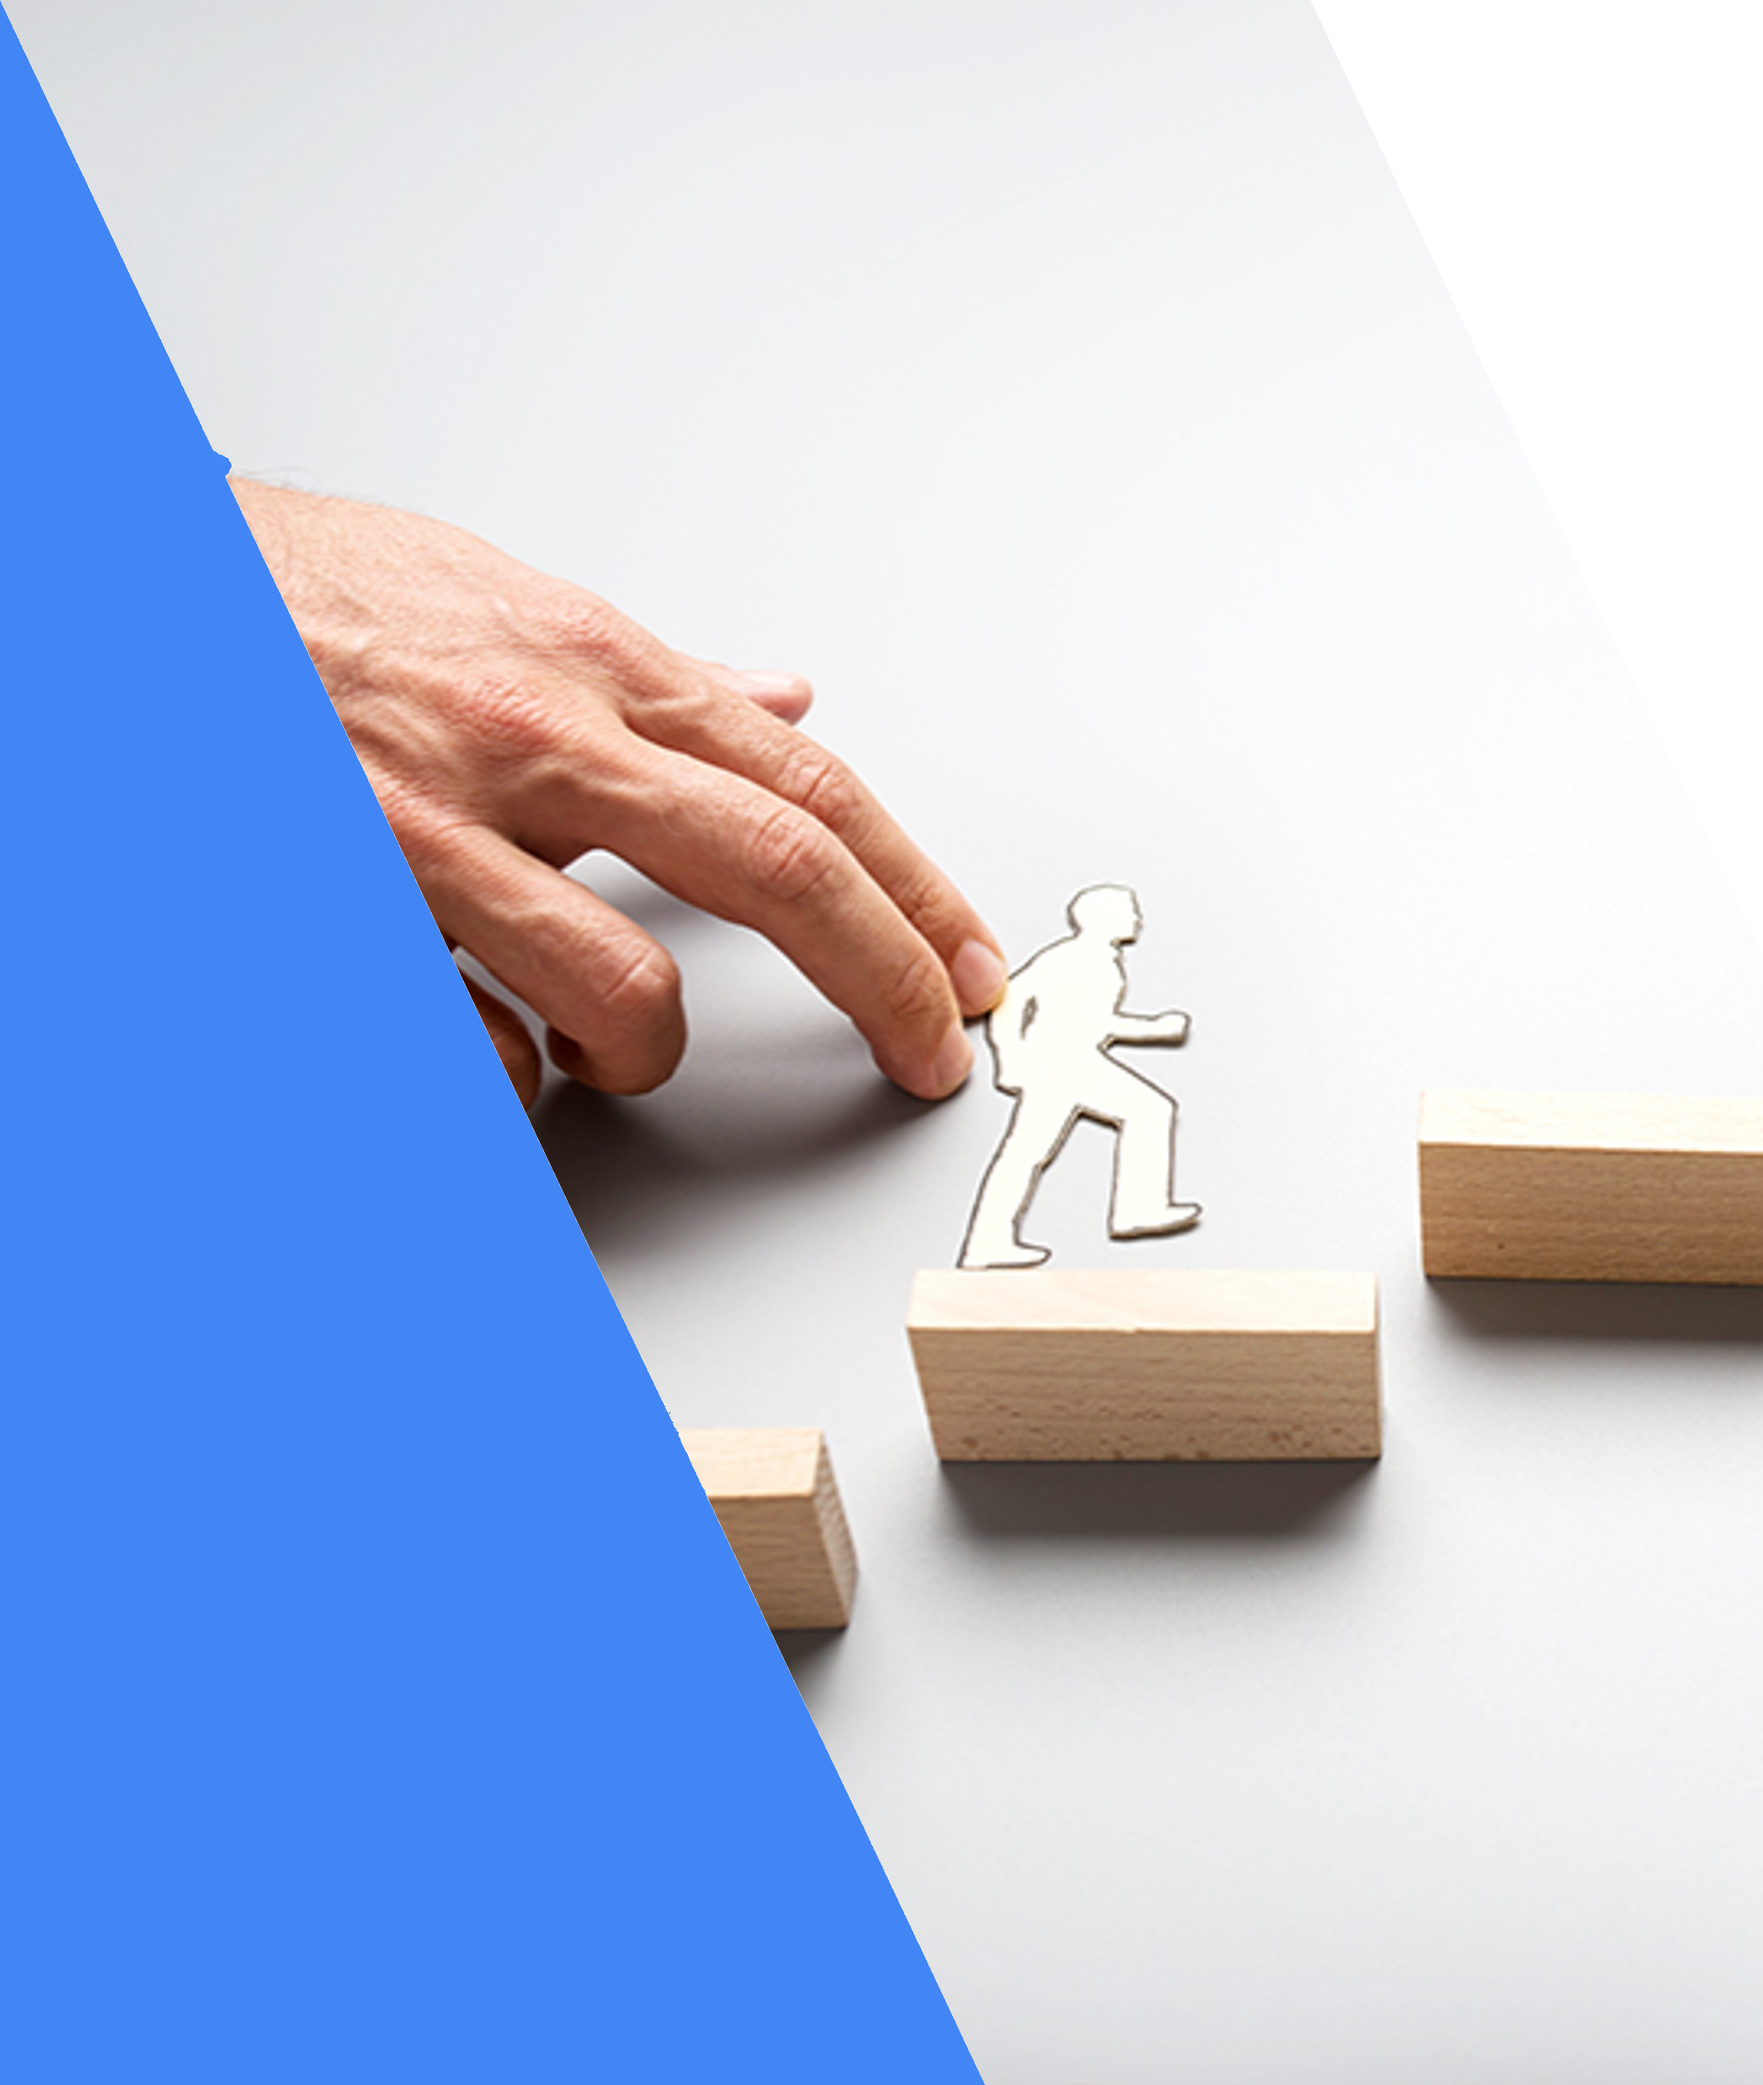
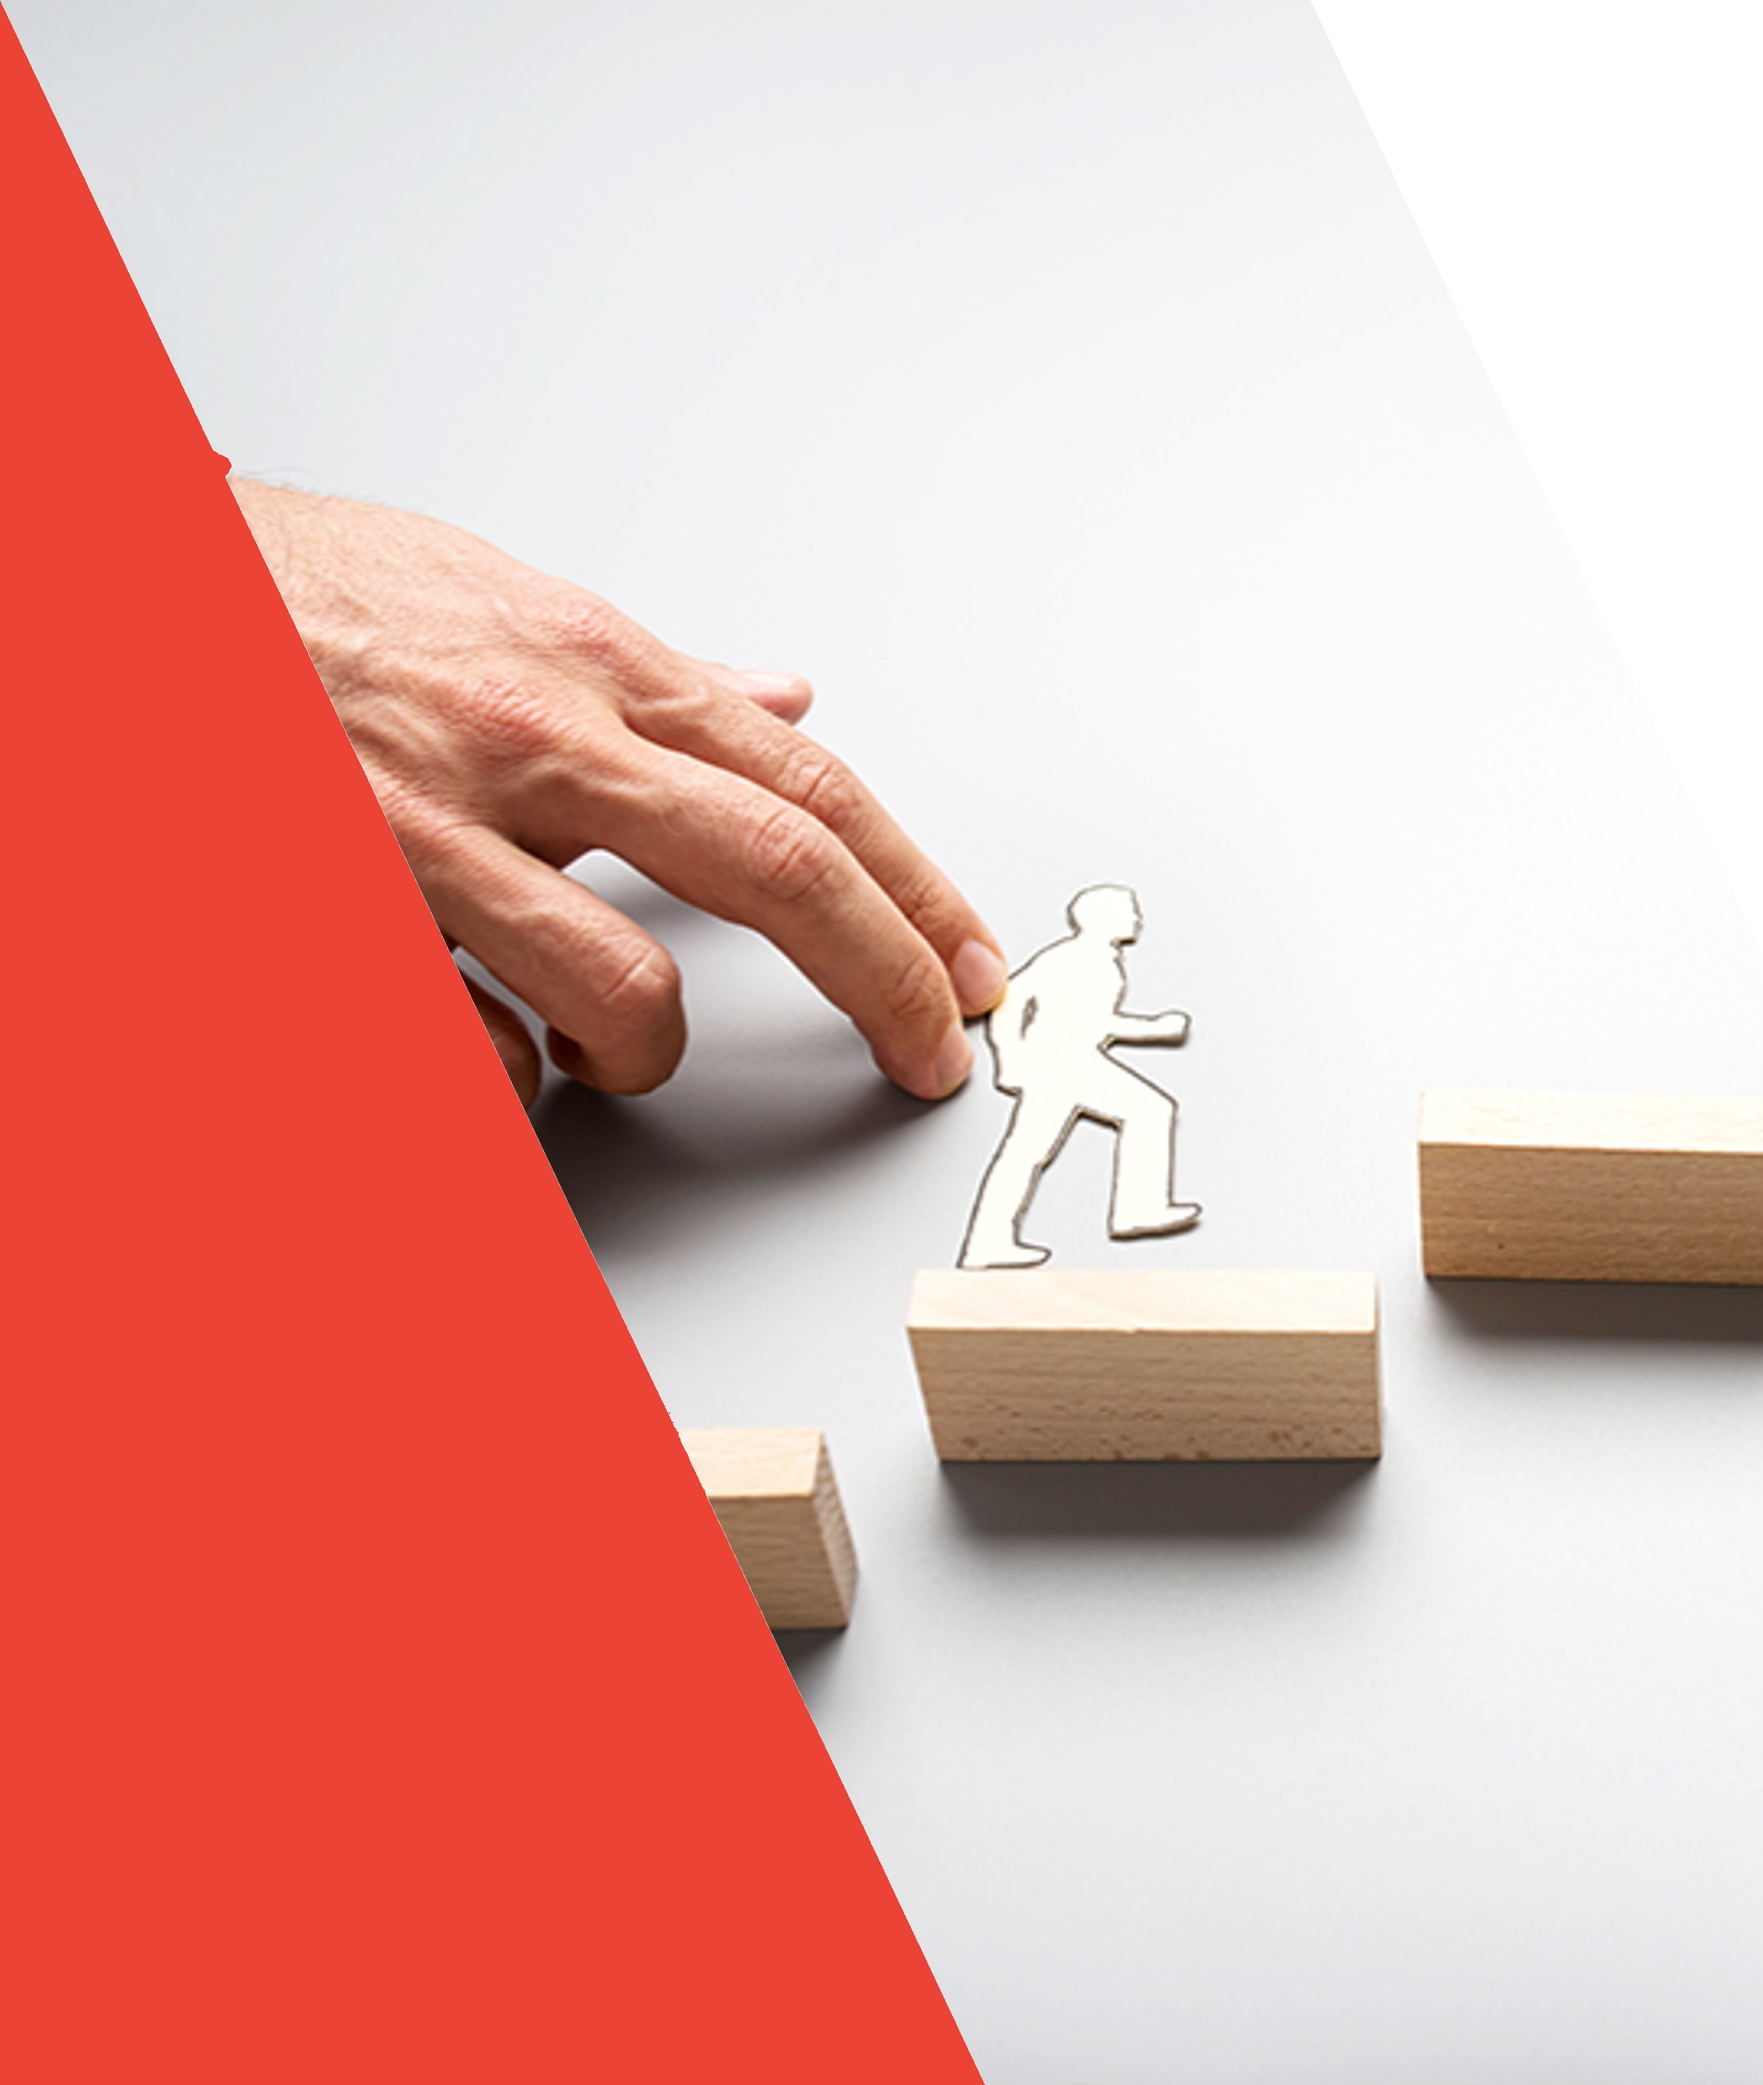
Created the rest of the information sites

Changed region(s): [[0.0, 0.0, 0.5611, 1.0]]

diff --git a/mentores.html b/mentores.html
@@ -23,7 +23,7 @@
     <script src='static/js/menu.js'></script>
 </head>
 <body>
-    <header class="info right">
+    <header class="info">
         <a href="" class="logo"><img src="static/img/logo/logo.webp" alt="TechFactory"></a>
         <button class="toggle" onclick="menuToggle();">
             <svg xmlns="http://www.w3.org/2000/svg" width="64" height="64" fill="currentColor" class="bi bi-list" viewBox="0 0 16 16">
@@ -69,18 +69,18 @@
             </li>
         </ul>
     </aside>
-    <section class="information-section blue">
-        <div class="images">
-            <div class="img-box"><img src="static/img/gallery/mentores/mentores1.jpg" alt=""></div>
-            <div class="img-box"><img src="static/img/gallery/mentores/mentores2.jpg" alt=""></div>
-            <div class="img-box"><img src="static/img/gallery/mentores/mentores3.jpg" alt=""></div> 
-         </div>
-        <div class="content one">
+    <section class="information-section red">
+        <div class="content">
             <div class="text">
-                <h1>Empresas</h1>
+                <h1>Mentores</h1>
                 <p>Lorem ipsum dolor sit amet consectetur adipisicing elit. Quisquam, consequuntur nobis quasi debitis ipsam animi voluptatem eaque? Rem error laboriosam facilis. Sed blanditiis illo voluptatum molestias sint, officia soluta perferendis!</p>
                 <a href="" class="button">Conoce más</a>
             </div>
+        </div>
+        <div class="images">
+           <div class="img-box"><img src="static/img/gallery/mentores/mentores1.jpg" alt=""></div>
+           <div class="img-box"><img src="static/img/gallery/mentores/mentores2.jpg" alt=""></div>
+           <div class="img-box"><img src="static/img/gallery/mentores/mentores3.jpg" alt=""></div> 
         </div>
     </section>
 </body>

diff --git a/static/scss/styles.scss b/static/scss/styles.scss
@@ -132,6 +132,9 @@ header.info{
         }
     }
 }
+header.info.right{
+    left: calc(50% - 10px);
+}
 .sidebar{
     z-index: 6;
     position: fixed;
@@ -440,21 +443,11 @@ section{
         }
     }
 }
-.blue{
-    background-color: #4285f4;
-}
-.green{
-    background-color: #34a853;
-}
-.red{
-    background-color: #eb4335;
-}
-.yellow{
-    background-color: #fbbc05;
-}
-.white{
-    background-color: white;
-}
+.blue{background-color: #4285f4;}
+.green{background-color: #34a853;}
+.red{background-color: #eb4335;}
+.yellow{background-color: #fbbc05;}
+.white{background-color: white;}
 .red-fill{
     .shape-fill{
         fill: #eb4335;
@@ -632,11 +625,18 @@ section{
     header.info{
         width: 95%;
     }
+    header.info.right{
+        left: 0;
+    }
     .information-section{
         grid-template-columns: 1fr;
         .content{
             padding: 40px;
             height: 70vh;
+        }
+        .one{
+           grid-column: 1;
+           grid-row: 1; 
         }
     }
 }

diff --git a/comunidad.html b/comunidad.html
@@ -69,7 +69,7 @@
             </li>
         </ul>
     </aside>
-    <section class="information-section blue">
+    <section class="information-section yellow">
         <div class="images">
             <div class="img-box"><img src="static/img/gallery/mentores/mentores1.jpg" alt=""></div>
             <div class="img-box"><img src="static/img/gallery/mentores/mentores2.jpg" alt=""></div>
@@ -77,7 +77,7 @@
          </div>
         <div class="content one">
             <div class="text">
-                <h1>Empresas</h1>
+                <h1>Comunidad</h1>
                 <p>Lorem ipsum dolor sit amet consectetur adipisicing elit. Quisquam, consequuntur nobis quasi debitis ipsam animi voluptatem eaque? Rem error laboriosam facilis. Sed blanditiis illo voluptatum molestias sint, officia soluta perferendis!</p>
                 <a href="" class="button">Conoce más</a>
             </div>

diff --git a/static/scss/styles.css b/static/scss/styles.css
@@ -176,6 +176,10 @@ header.info button:hover svg {
   fill: #fbbc05;
 }
 
+header.info.right {
+  left: calc(50% - 10px);
+}
+
 .sidebar {
   z-index: 6;
   position: fixed;
@@ -806,6 +810,9 @@ section .first {
   header.info {
     width: 95%;
   }
+  header.info.right {
+    left: 0;
+  }
   .information-section {
     -ms-grid-columns: 1fr;
         grid-template-columns: 1fr;
@@ -813,6 +820,12 @@ section .first {
   .information-section .content {
     padding: 40px;
     height: 70vh;
+  }
+  .information-section .one {
+    -ms-grid-column: 1;
+    grid-column: 1;
+    -ms-grid-row: 1;
+    grid-row: 1;
   }
 }
 
